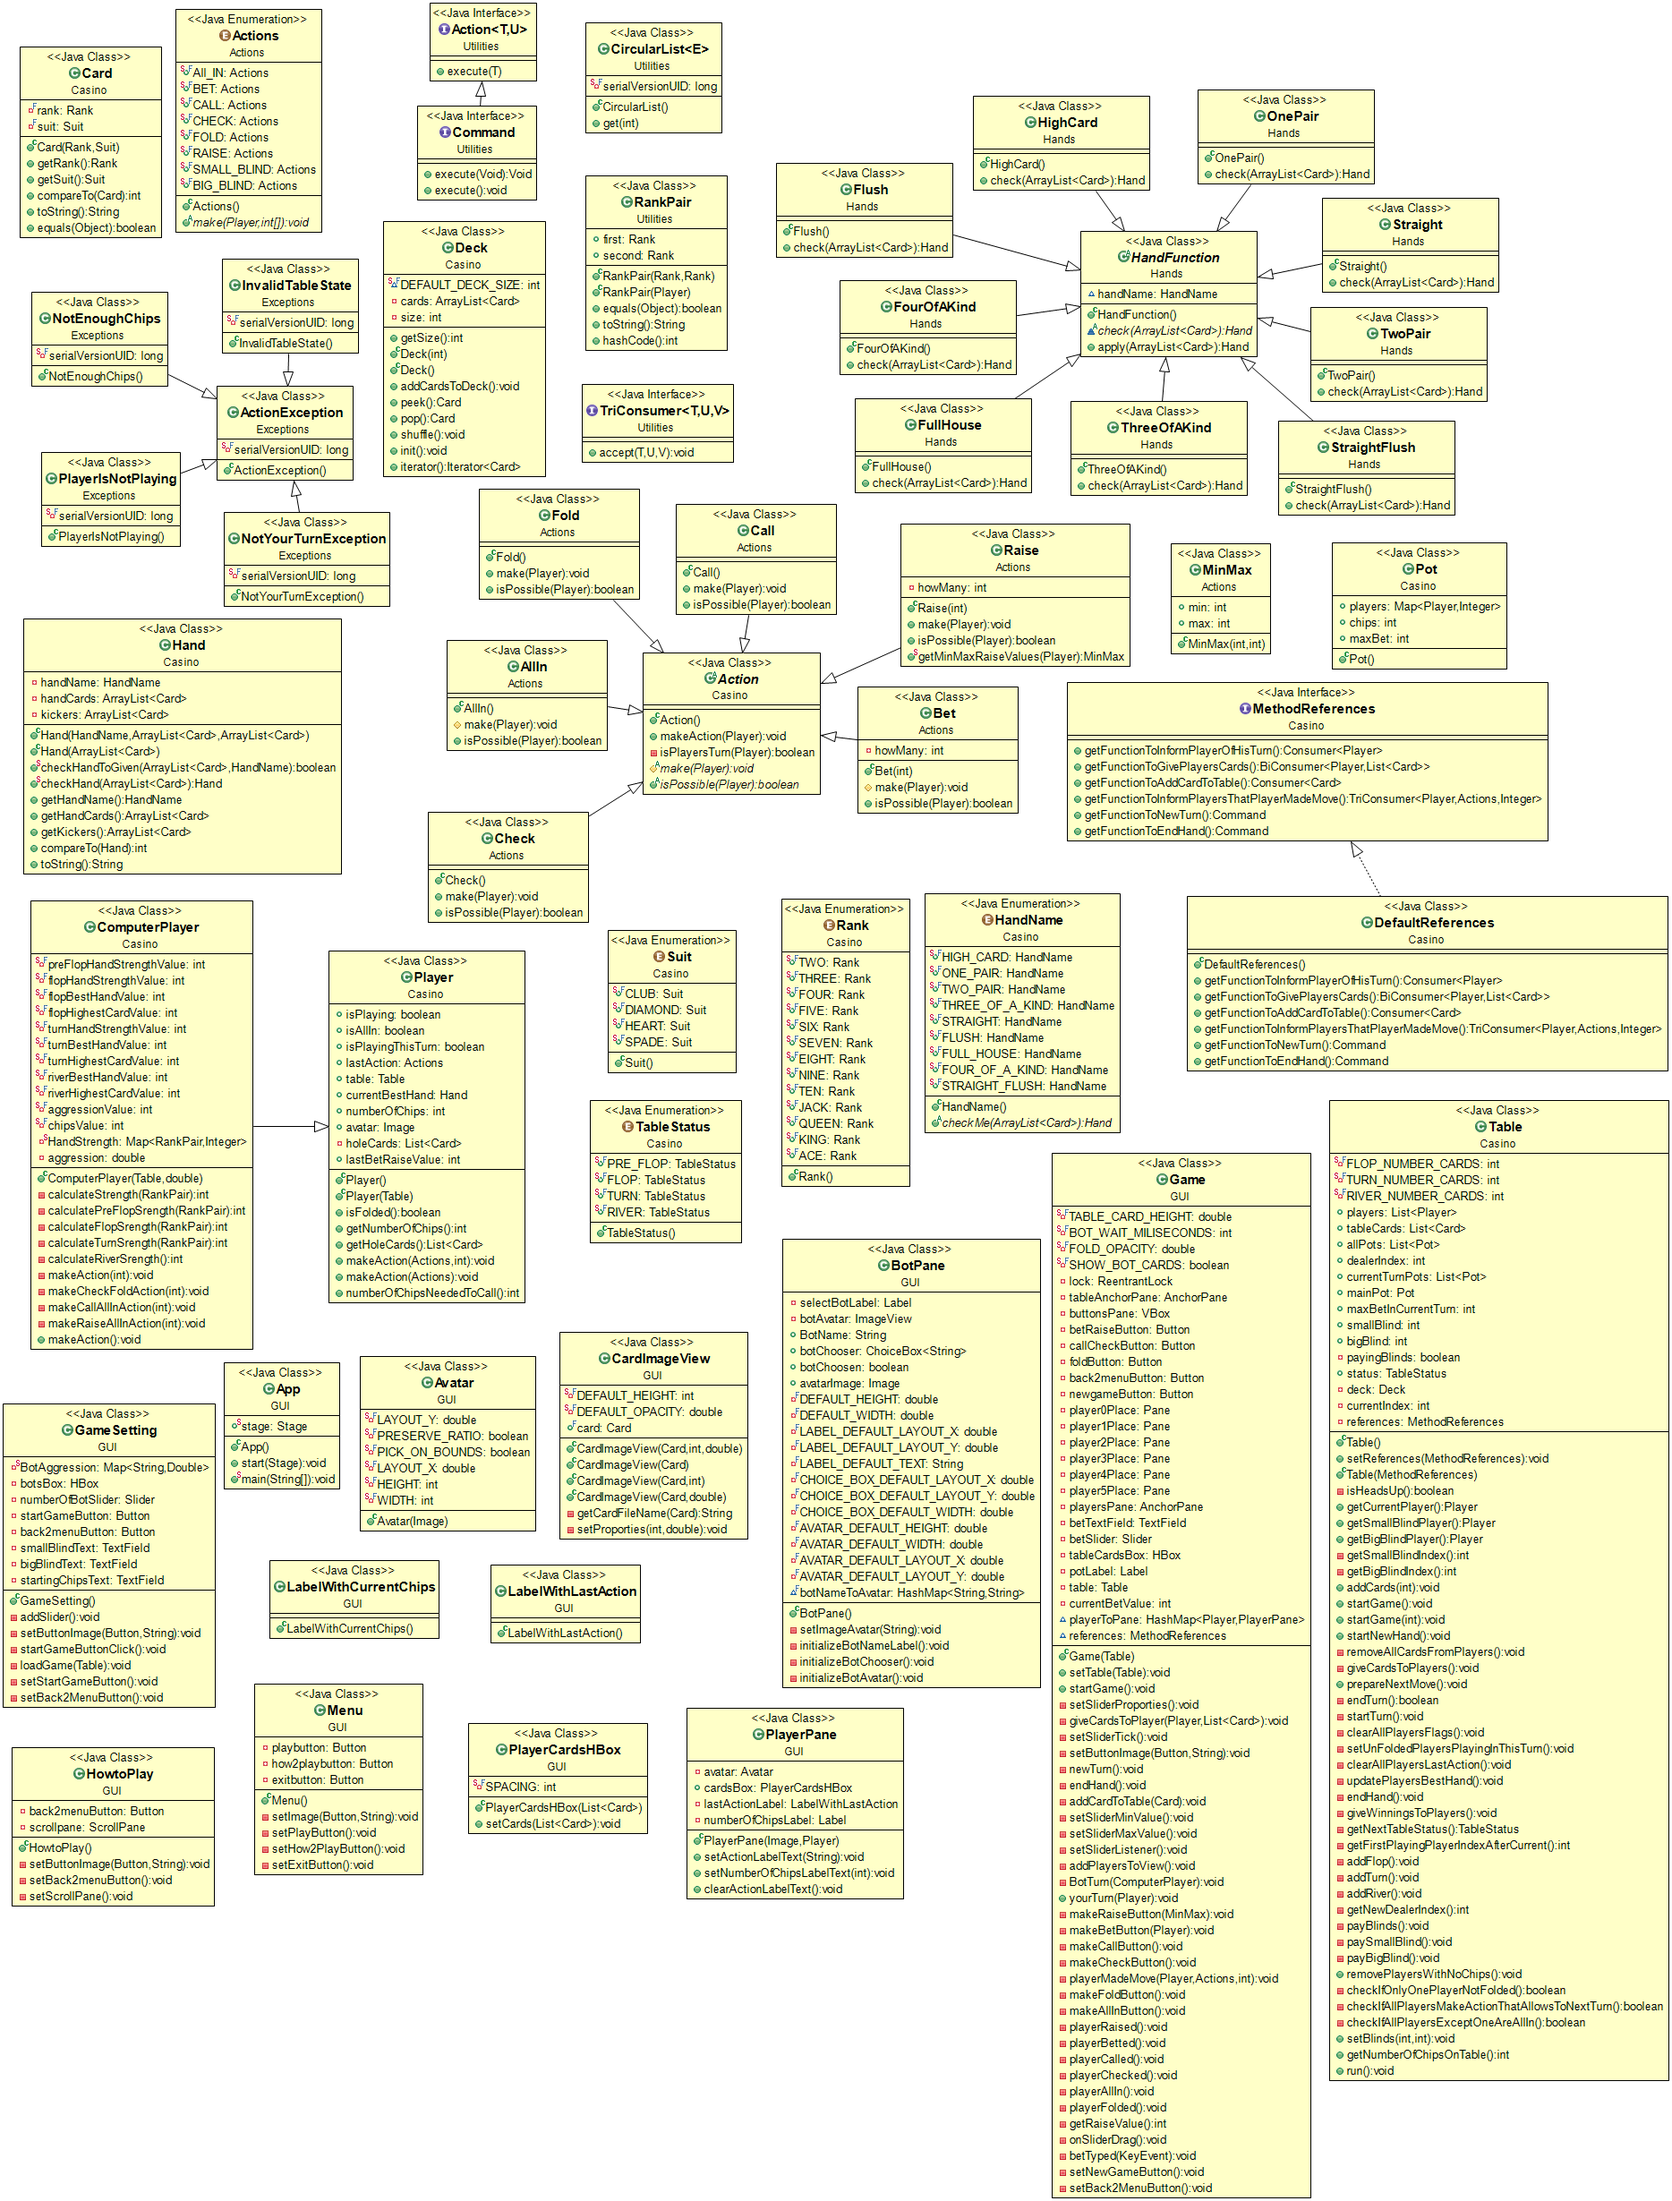
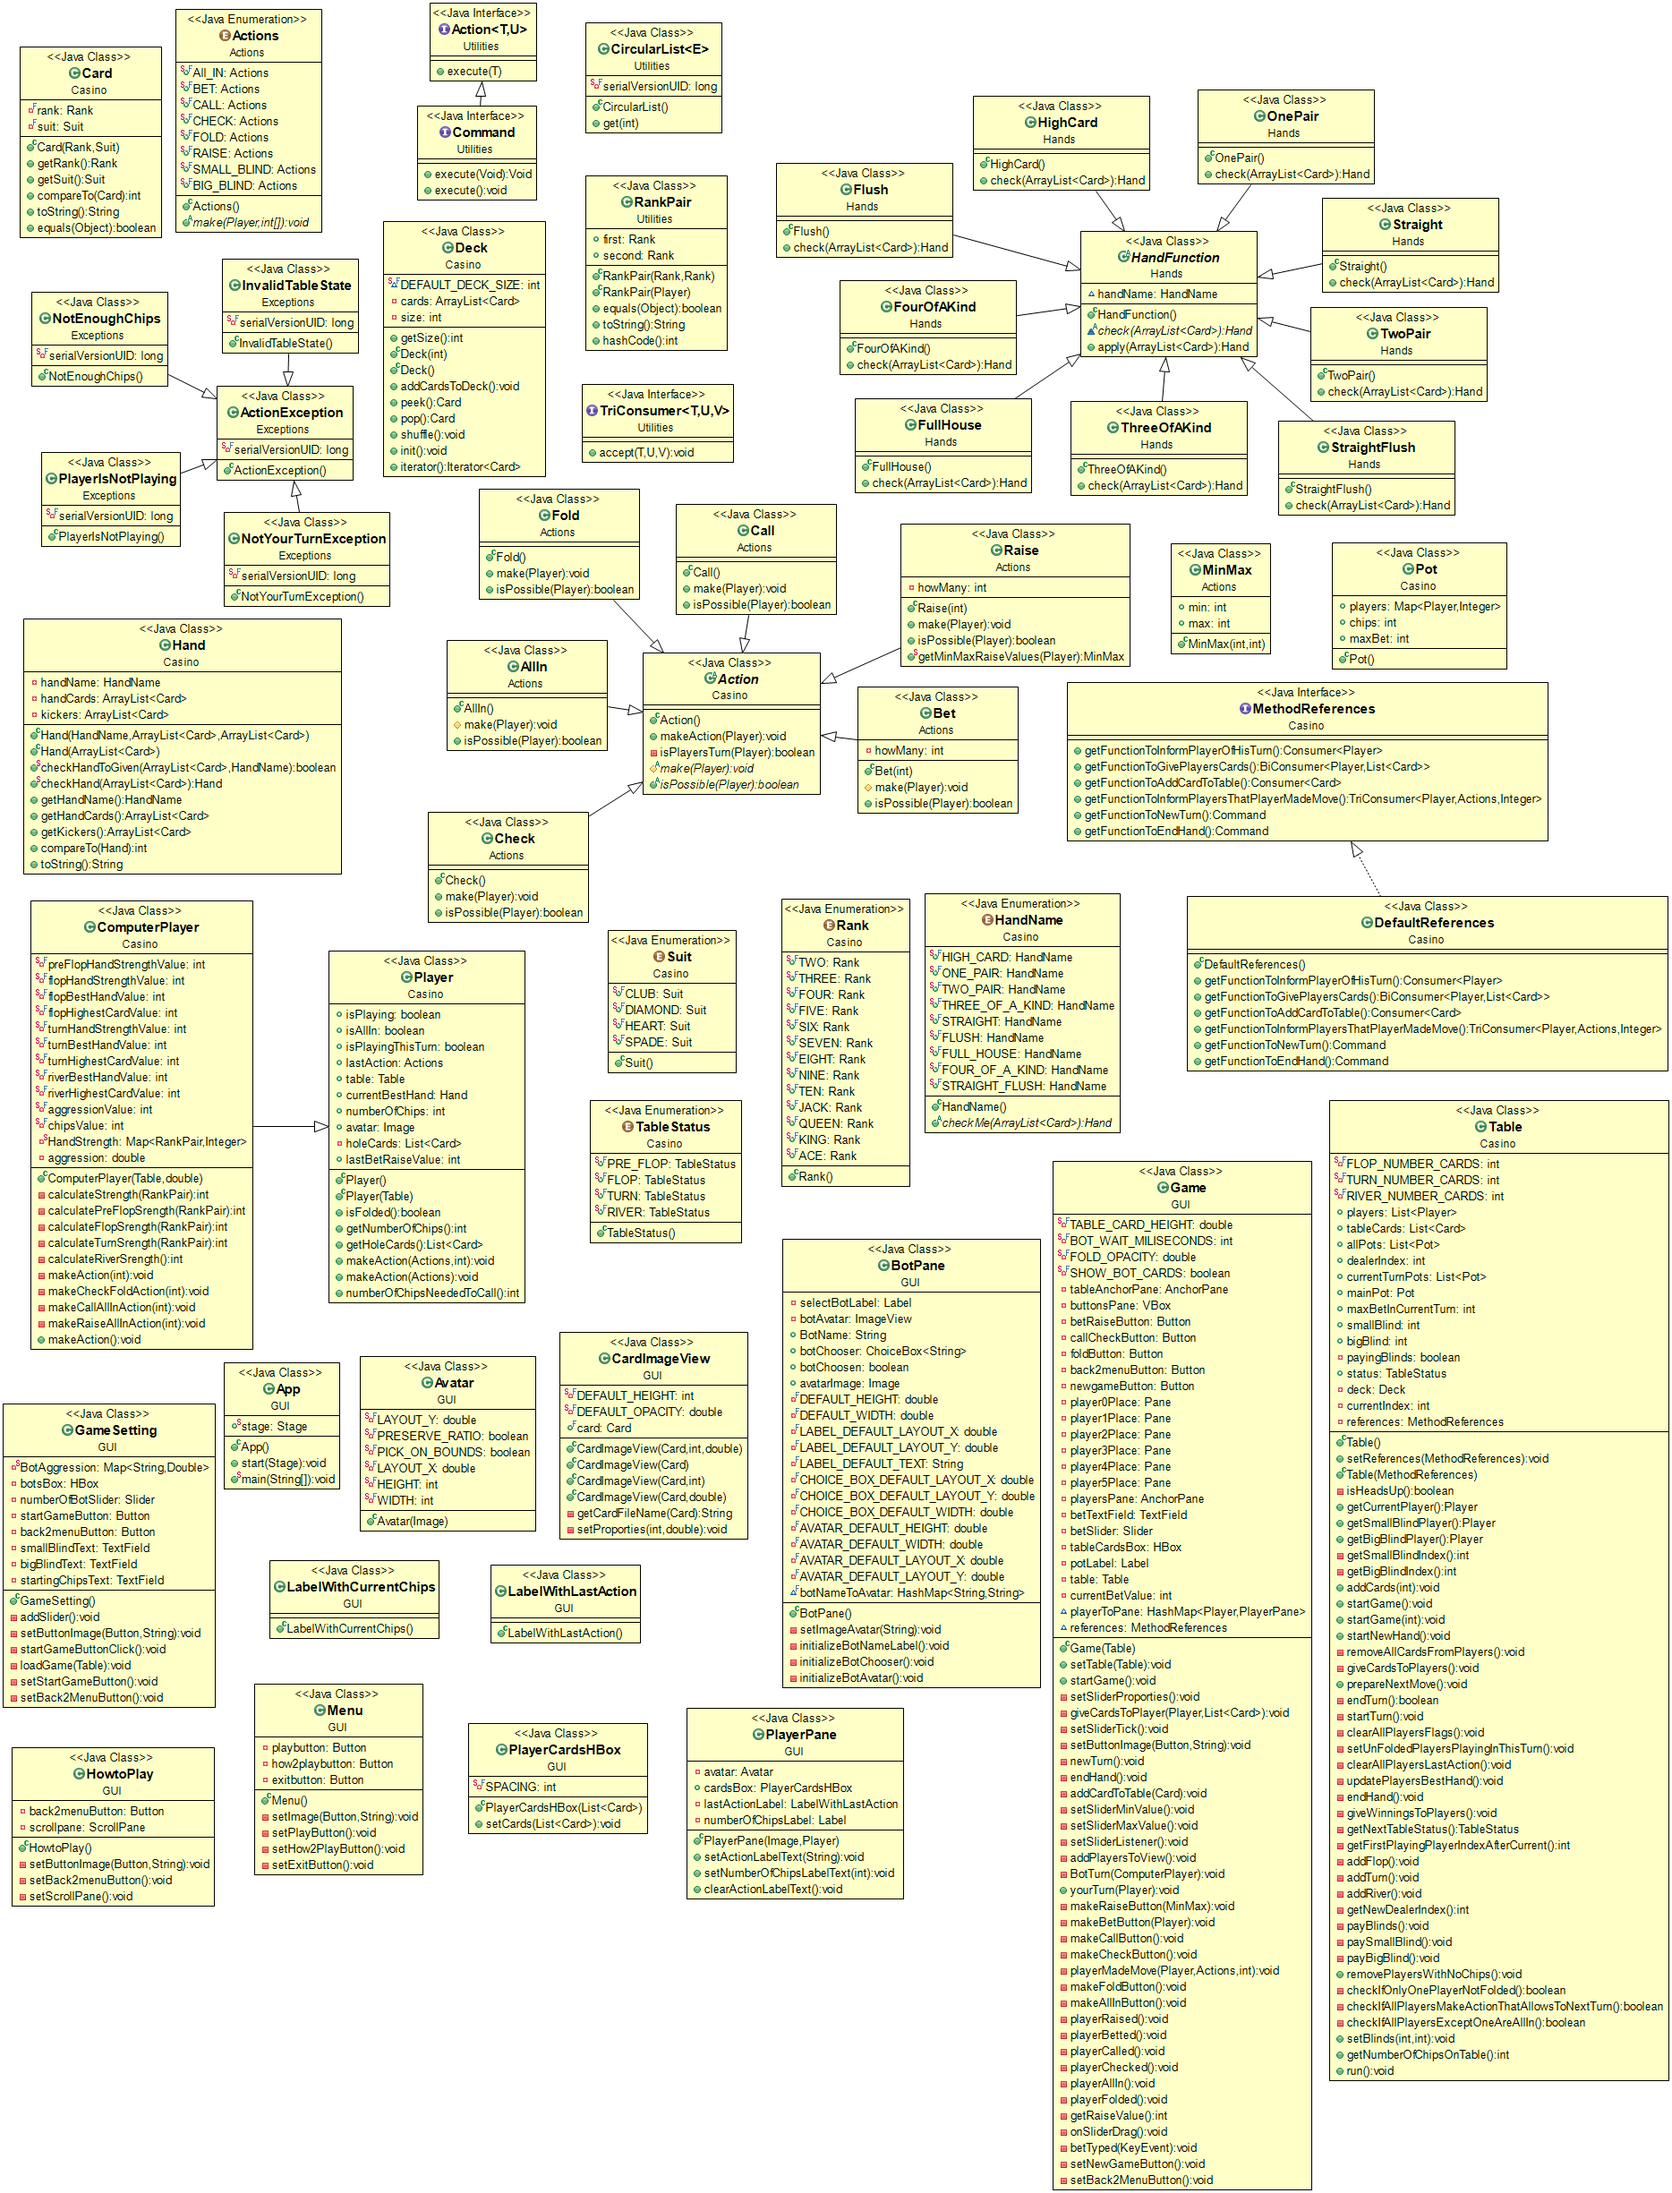
updateProject

Changed region(s): [[0.0, 0.0, 0.9936, 1.0]]

diff --git a/src/GUI/Game.java b/src/GUI/Game.java
@@ -29,7 +29,6 @@ public class Game extends AnchorPane {
     private static final int BOT_WAIT_MILISECONDS = 1000;
     private static final double FOLD_OPACITY = 0.3;
     private static final boolean SHOW_BOT_CARDS = false;
-    private ReentrantLock lock = new ReentrantLock();
 
     private AnchorPane tableAnchorPane;
     private VBox buttonsPane;
@@ -233,7 +232,6 @@ public class Game extends AnchorPane {
     }
 
     private void giveCardsToPlayer(Player player, List<Card> cards) {
-        lock.lock();
         Platform.runLater(new Runnable() {
             @Override
             public void run() {
@@ -243,7 +241,6 @@ public class Game extends AnchorPane {
                     playerToPane.get(player).cardsBox.setCards(cards);
             }
         });
-        lock.unlock();
     }
 
     private void setSliderTick() {
@@ -254,7 +251,7 @@ public class Game extends AnchorPane {
                 .addListener((obs, oldval, newVal) -> betSlider.setValue(Math.round(newVal.doubleValue())));
     }
     
-    private void setButtonImage(Button button,String url) {
+    /**/private void setButtonImage(Button button,String url) {
     	String image = ClassLoader.getSystemResource(url).toString();
 		ImageView img = new ImageView(image);
 		img.setFitWidth(120);
@@ -263,7 +260,6 @@ public class Game extends AnchorPane {
     }
 
     private void newTurn() {
-        lock.lock();
         try {
             Thread.sleep(300);
         } catch (InterruptedException e) {
@@ -278,11 +274,9 @@ public class Game extends AnchorPane {
                 }
             }
         });
-        lock.unlock();
     }
 
     private void endHand() {
-        lock.lock();
 
         try {
             Thread.sleep(500);
@@ -290,7 +284,6 @@ public class Game extends AnchorPane {
             e.printStackTrace();
         }
 
-        lock.unlock();
 
         try {
             Thread.sleep(2000);
@@ -298,7 +291,6 @@ public class Game extends AnchorPane {
             e.printStackTrace();
         }
 
-        lock.lock();
 
         Platform.runLater(new Runnable() {
             @Override
@@ -340,13 +332,11 @@ public class Game extends AnchorPane {
         } catch (InterruptedException e) {
             e.printStackTrace();
         }
-        lock.unlock();
 
         table.startNewHand();
     }
 
     private void addCardToTable(Card card) {
-        lock.lock();
         try {
             Thread.sleep(300);
         } catch (InterruptedException e) {
@@ -359,7 +349,6 @@ public class Game extends AnchorPane {
 
             }
         });
-        lock.unlock();
     }
 
     private void setSliderMinValue() {
@@ -415,7 +404,6 @@ public class Game extends AnchorPane {
     }
 
     public void yourTurn(Player player) {
-        lock.lock();
 
         Platform.runLater(new Runnable() {
 
@@ -448,7 +436,6 @@ public class Game extends AnchorPane {
                 }
             }
         });
-        lock.unlock();
 
     }
 
@@ -583,7 +570,6 @@ public class Game extends AnchorPane {
     }
 
     private void playerMadeMove(Player player, Actions action, int value) {
-        lock.lock();
         Platform.runLater(new Runnable() {
             @Override
             public void run() {
@@ -601,7 +587,6 @@ public class Game extends AnchorPane {
                 potLabel.setText(Integer.toString(player.table.getNumberOfChipsOnTable()));
             }
         });
-        lock.unlock();
     }
 
     private void makeFoldButton() {

diff --git a/src/Actions/AllIn.java b/src/Actions/AllIn.java
@@ -138,7 +138,7 @@ public class AllIn extends Action {
         player.isAllIn = true;
 
         player.lastAction = Actions.All_IN;
-
+        
         StringBuilder wyn = new StringBuilder();
         for (Pot p : player.table.allPots) {
             wyn.append("MAXBET: " + p.maxBet + "\n");
